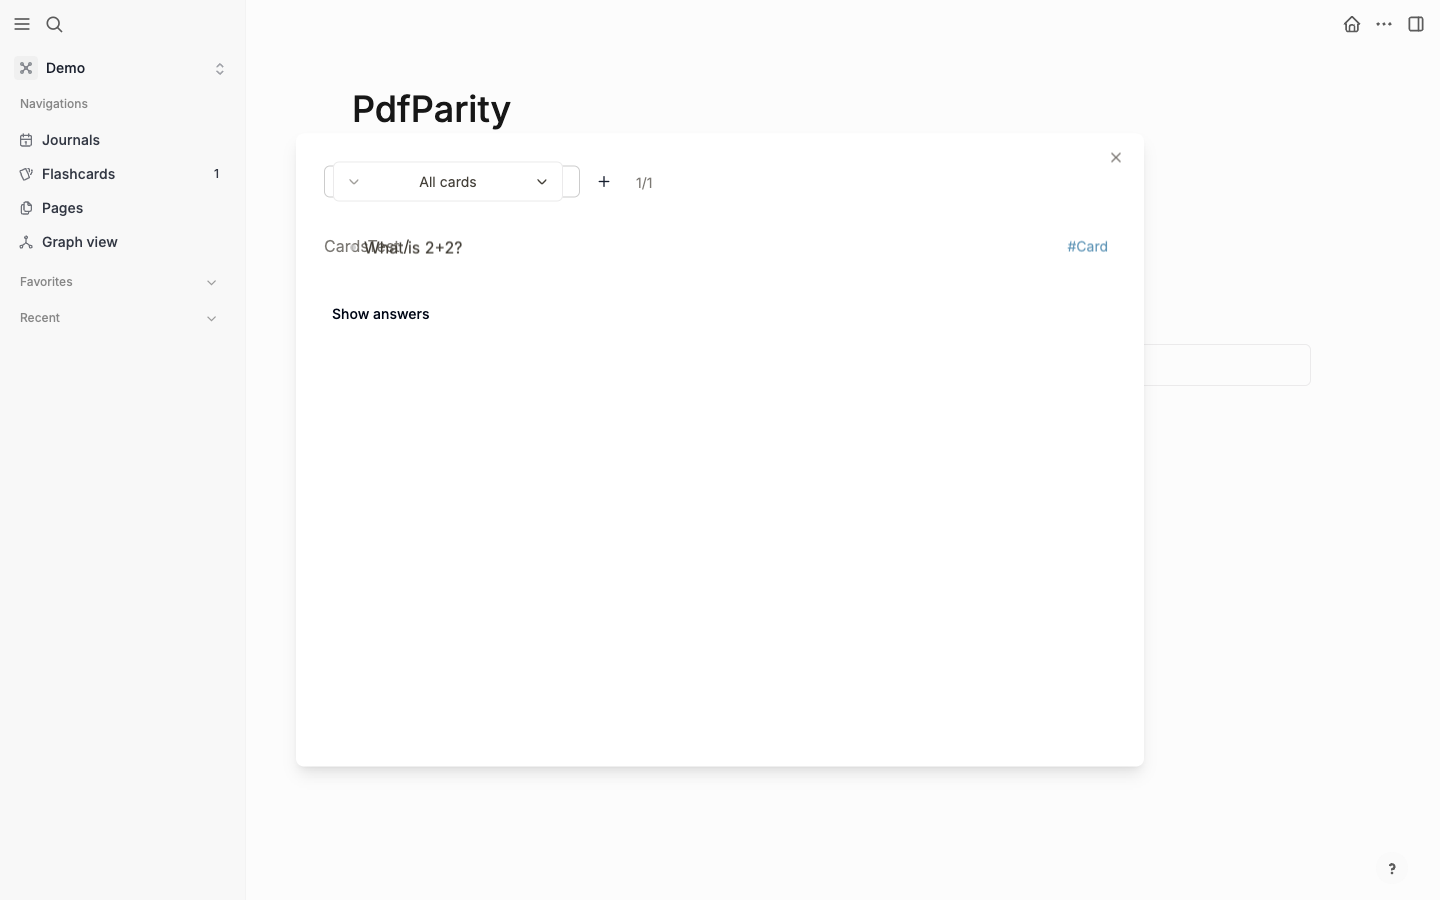
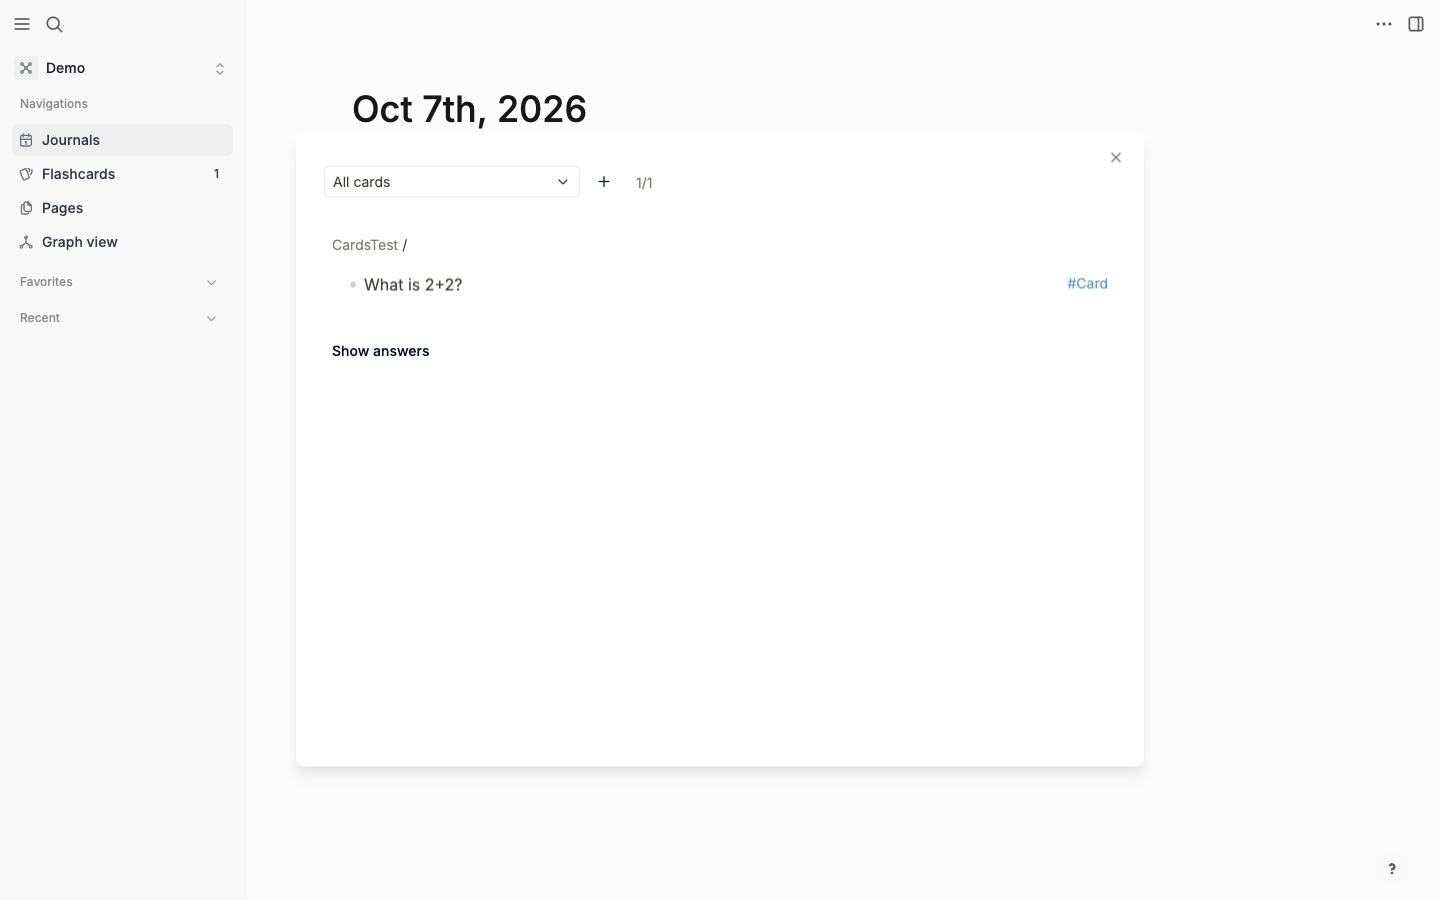
fix(ui): cards modal select trigger + breadcrumb overlap

diff --git a/resources/css/lui-overlay.css b/resources/css/lui-overlay.css
@@ -4761,34 +4761,35 @@ select.form-select {
 
 /* cards (flashcards review modal) */
 .ls-cards-select {
+  position: relative;
+  display: inline-flex;
+}
+
+/* cljs shui/select-trigger: !px-2 !py-0 !h-8 w-64 — the .lui-select base
+   supplies border/radius/::after chevron; this only resizes it */
+.ls-cards-select-value {
   width: 16rem;
   height: 2rem;
-  padding: 0 0.5rem;
-  position: relative;
-  display: flex;
-  align-items: center;
-  gap: 0.5rem;
-  border: 1px solid var(--ls-border-color);
-  border-radius: 0.375rem;
+  min-height: 0;
+  min-width: 0;
+  padding-block: 0;
+  padding-inline: 0.5rem;
   font-size: 0.875rem;
   cursor: pointer;
 }
 
-.ls-cards-select-value {
-  display: flex;
-  align-items: center;
-  justify-content: space-between;
-  width: 100%;
+.ls-cards-select-value .lui-select-value {
   min-width: 0;
   overflow: hidden;
+  text-overflow: ellipsis;
+  white-space: nowrap;
+  text-align: left;
 }
 
-.ls-cards-select-value .ls-icon-sm,
-.ls-cards-select-value svg {
-  opacity: 0.5;
-  flex-shrink: 0;
-  width: 1rem;
-  height: 1rem;
+/* cljs: [:div.mb-4.ml-2.opacity-70.text-sm (block-breadcrumb ...)] */
+.ls-card-bc {
+  margin: 0 0 1rem 0.5rem;
+  font-size: 0.875rem;
 }
 
 .ls-gap {

diff --git a/docs/pdf-flashcards-parity.md b/docs/pdf-flashcards-parity.md
@@ -44,7 +44,7 @@ Reference: `src/main/frontend/extensions/fsrs.cljs` (rating set `[:again :hard :
 | Keyboard | `s` show answers, `1`–`4` rate, `Escape` close | identical | ok | — |
 | Make a Flashcard ctx item | block ctx menu "Make a Flashcard" → tags block `logseq.class/Card` | same item (flag `:feature/enable-flashcards?`, default on) + `make-flashcard` cmd | ok | — |
 | `+` add card in modal | inserts Card-class block into today's journal | same (`add_cards_block`) | ok | — |
-| Card breadcrumb row | page-name breadcrumb sits above card text | renders on the same line and overlaps the question text (cosmetic) | divergent | `lui-11` |
+| Card breadcrumb row | `mb-4 ml-2 opacity-70 text-sm` row above the card | **was overlapping** the question — `scroll` kind lays children in one grid cell → crumbs + card now wrapped in a single `column` | fixed | `lui-10`, `lui-11` |
 
 ## Fixes landed this slice
 
@@ -54,11 +54,11 @@ Reference: `src/main/frontend/extensions/fsrs.cljs` (rating set `[:again :hard :
 - `pdf_hls.ml` / `asset_dom.ml` — `.block-children`/`.asset-block-wrap` grow in the flex row so annotation ref blocks lay out horizontally.
 - `editor_keys.ml` — `[data-pressable]` added to the click-guard `closest()` selector (annotation refs + pdf labels no longer enter edit mode).
 - `resources/css/extensions-pdf.css` (new) + `resources/index.html` / `static/index.html` + `postcss.config.js` — pdf extension stylesheet wired into the web build.
+- `cards_view.ml` + `lui-overlay.css` — card-set picker: custom styled box + hand-added chevron inside the `select` node produced a double border + double chevron + 40px overflow in a 32px row → now the `select` kind itself is the trigger (`.lui-select` border + built-in `::after` chevron), sized to cljs `!h-8 w-64`; and the scroll-region children are wrapped in one `column` (scroll kind stacks children in a single grid cell → breadcrumb overlapped the card text).
 
 ## Not covered
 
 - cljs master app was not launched this slice; master behavior is asserted from source (`pdf/*.cljs`, `fsrs.cljs`, `toolbar.cljs`, `assets.cljs`).
 - Linked-references menu click-through (item renders; action unverified).
 - Cloze-style cards (`{{cloze}}`) render path not exercised end-to-end (phase machine mirrors cljs `:show-cloze`; no cloze card seeded).
-- Breadcrumb-overlap cosmetic divergence in the review modal.
 - No lui-layer changes needed — all fixes are deps/ui + repo-root css/html/postcss.
